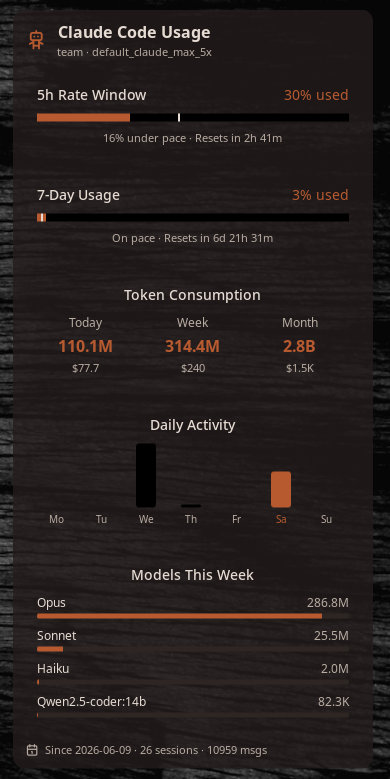
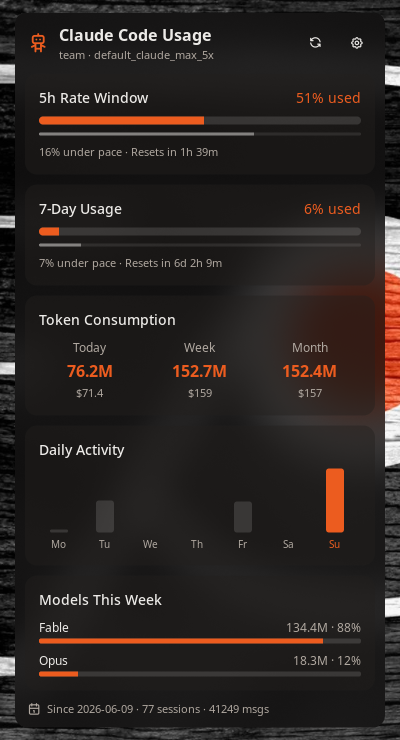
Desktop widget: same layout as the click panel
Header with refresh/settings, profile tabs (cycle button beyond 4), usage bar
over time-elapsed bar, shared card styling. Retake desktop screenshot.

diff --git a/claudecode/README.md b/claudecode/README.md
@@ -18,7 +18,8 @@ usage. Ported from the original [Dank Material Shell plugin](https://github.com/
   - CCS profile selector (tabs for up to 4 profiles, dropdown beyond; cycles through
     `~/.ccs/instances/*`)
   - Refresh / settings / close buttons
-- **Desktop widget** with the same content as an always-visible tile (profile cycle button).
+- **Desktop widget**: the same panel as an always-visible desktop tile (tabs for up to 4
+  profiles, cycle button beyond; no hover detail on the daily chart).
 - **Automatic subscription / rate-limit detection** via the Anthropic OAuth API.
 - **Dynamic model pricing** from [LiteLLM](https://github.com/BerriAI/litellm); USD/EUR
   via the ECB ([Frankfurter](https://www.frankfurter.app/)).
@@ -29,8 +30,8 @@ usage. Ported from the original [Dank Material Shell plugin](https://github.com/
 - Circular progress rings are rendered as linear bars (Noctalia's `ui.*` has no ring).
 - The panel has a fixed size declared in the manifest (380×640) and scrolls; the DMS popout
   auto-sizes.
-- The desktop widget's daily chart has no hover tooltips (desktop widgets take no hover);
-  the panel's does.
+- The desktop widget's daily chart has no hover detail and no dropdown (desktop widgets take
+  no hover and no `ui.select`); the panel has both.
 
 ## Requirements
 
